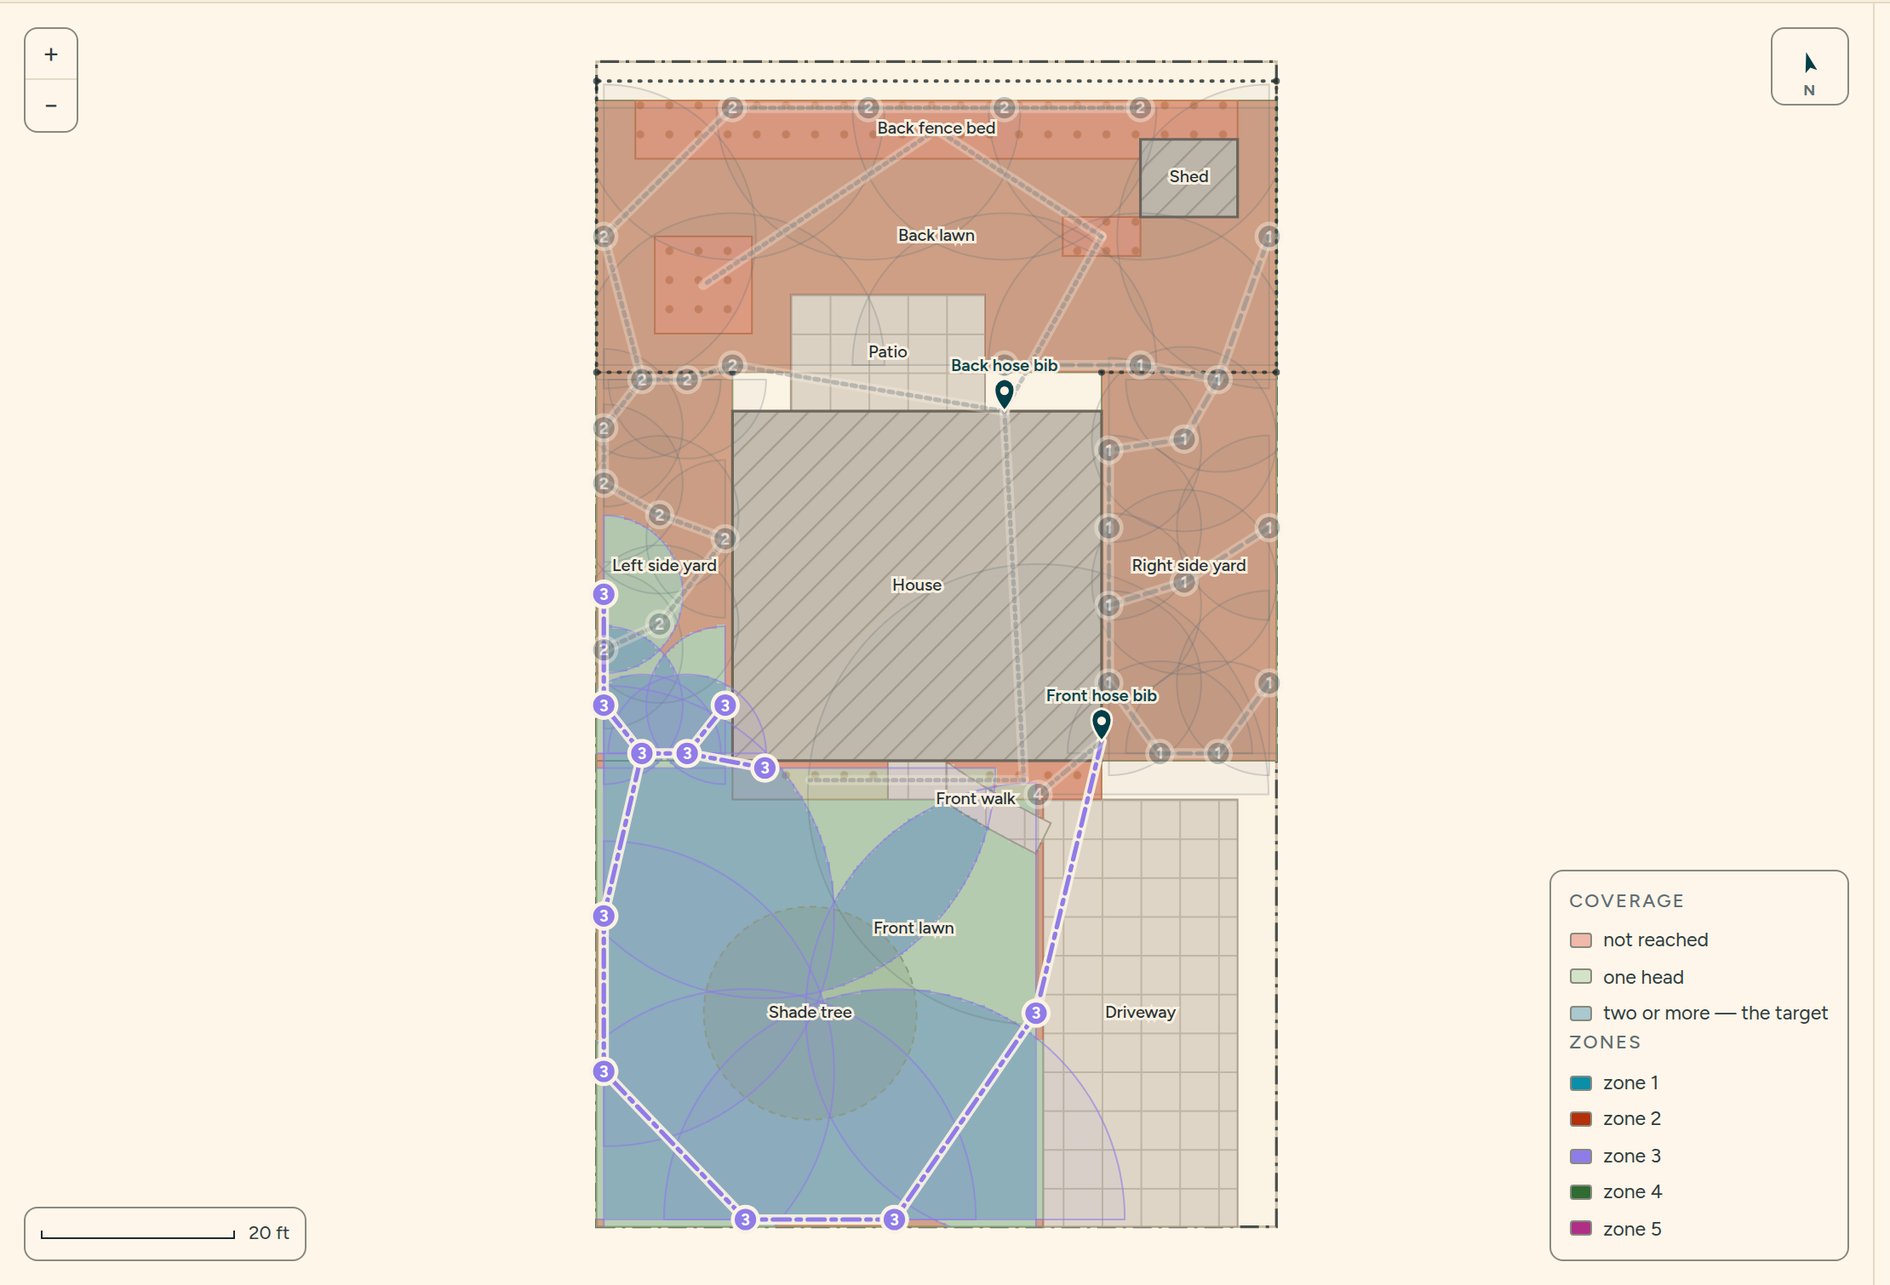
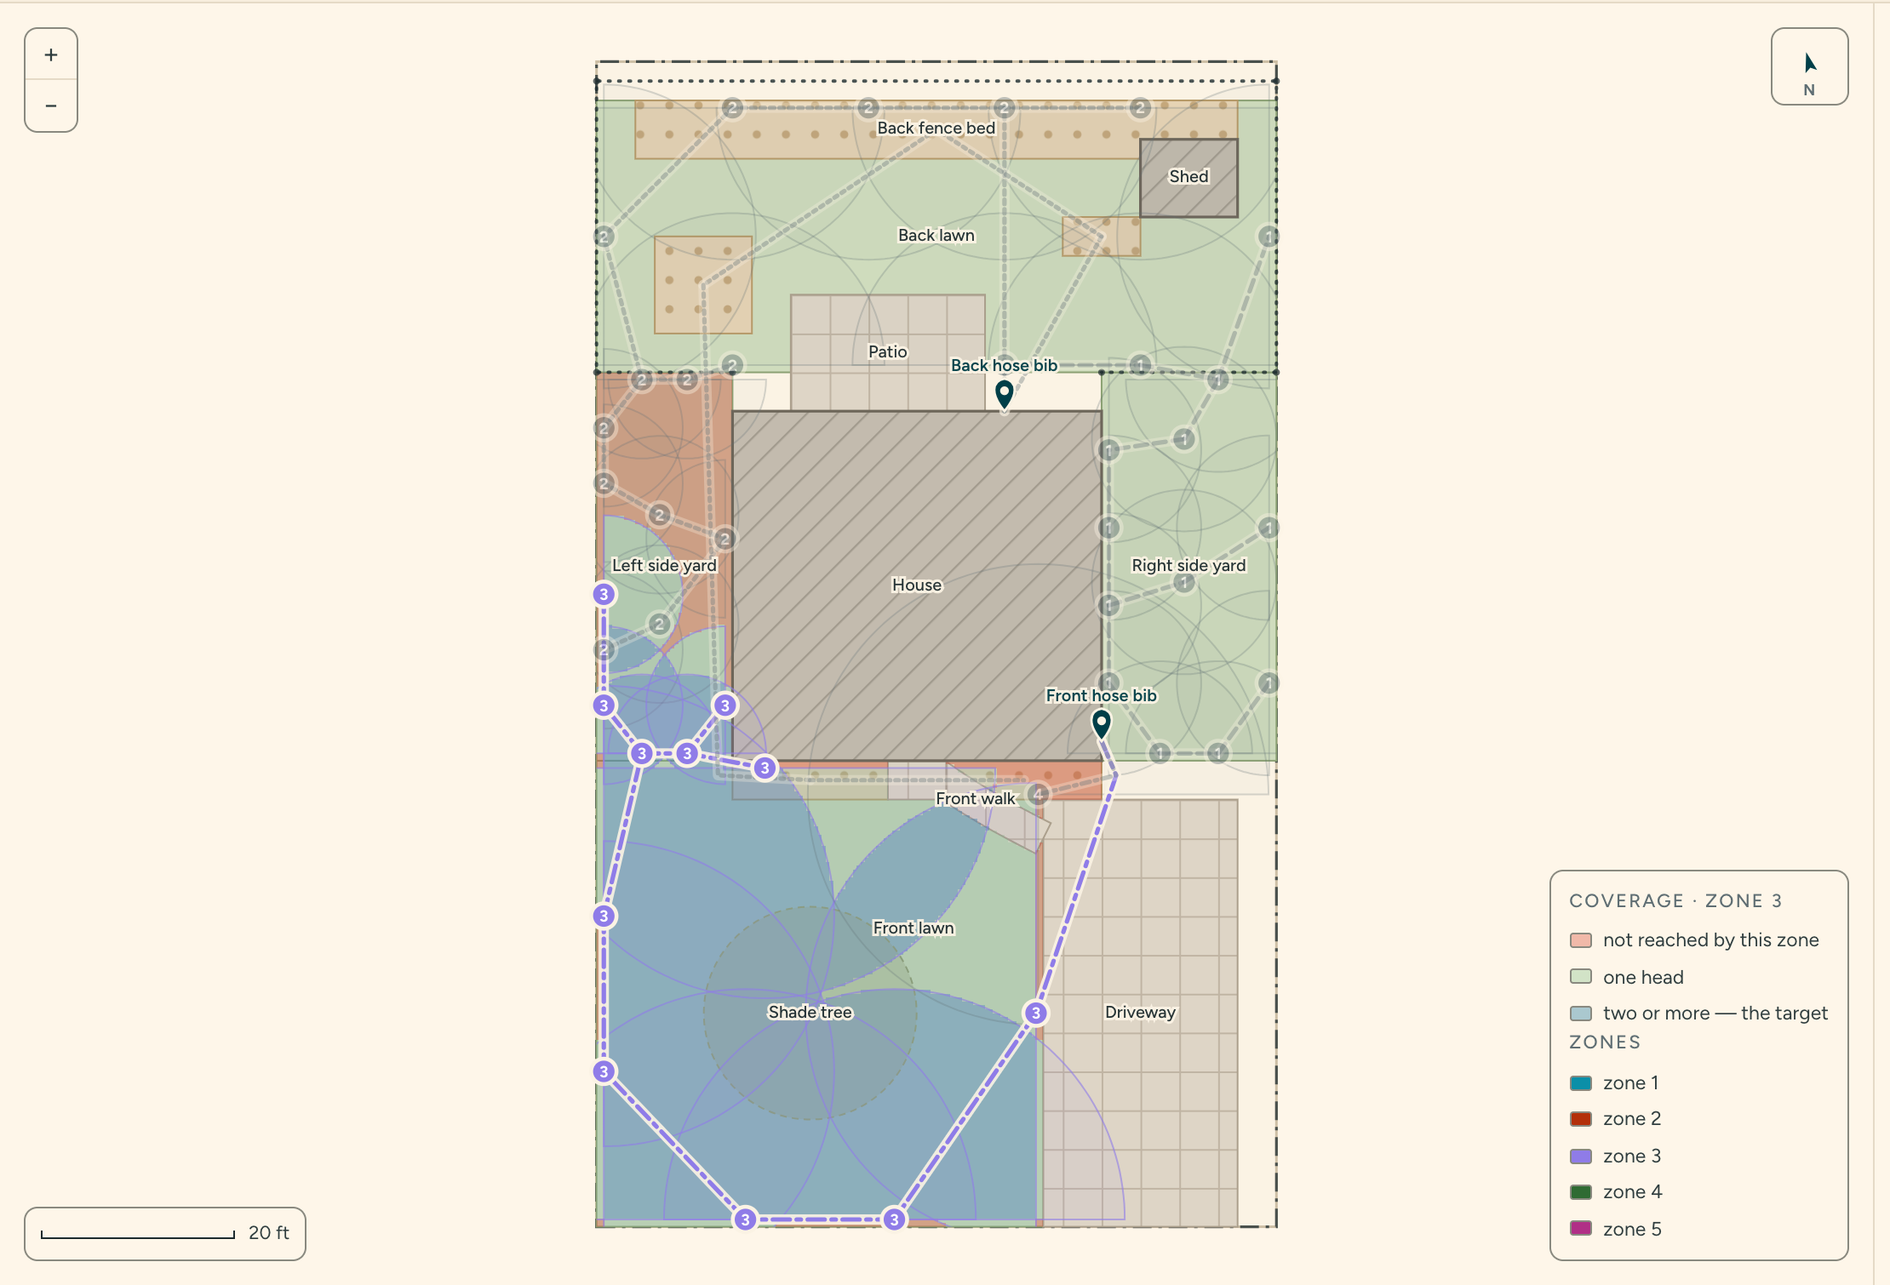
Trenches: route around buildings instead of only penalising them
Two things were wrong. segmentCrossesPoly counted a touch as a crossing,
and both sample bibs sit on the house wall, so every run out of a bib
carried the x8 penalty and the tree learned nothing from it — four of
the five "crossings" on the sample yard were this. It now means "enters
the interior": proper edge crossings, otherwise three interior sample
points with the boundary read as outside.

The one real crossing (a drip run straight through the house to the
front beds) is now routed. TrenchRouter builds a visibility graph over
every building's offset corners (offsetCorners in geometry.js, 1.5 ft
margin, reflex-safe), computes corner-to-corner visibility once, and
answers each query with Dijkstra. trenchTree weights every edge by its
routed cost and returns polylines with the turns in; autoLayout writes
them straight into pipes[].pts — the renderer, the sheet's pipe totals
and the reachability test already took polylines. Paving stays a x1.8
price rather than a wall; a boxed-in pair falls back to a straight run
at x8, drawn honestly.

Sample yard: 0 runs under a building (was 1 real + 4 false), 610 ft of
trench (was 586). Six new tests, README / page / HANDOFF updated, and
the figures and OG card regenerated.

Claude-Session: https://claude.ai/code/session_01MkXNGgWg6Zpzr4CqgBHzzu

diff --git a/src/autolayout.js b/src/autolayout.js
@@ -19,7 +19,7 @@
 
 import {
   dist, clamp, deg, rad, pointInPoly, polyArea, centroid, bounds,
-  distToBoundary, nearestOnSegment, segmentCrossesPoly, aimVec,
+  distToBoundary, nearestOnSegment, segmentCrossesPoly, offsetCorners, aimVec,
 } from './geometry.js';
 import { HEAD_TYPES, headGpm, dripGpm, dripTubingFt, effectiveRadius } from './hydraulics.js';
 import { isIrrigable, isObstacle, newId, peekId } from './site.js';
@@ -235,47 +235,130 @@ export function packZones(chain, gpmOf, budget, maxPerZone = MAX_HEADS_PER_ZONE)
 
 /* --- 7. Trenching ------------------------------------------------------- */
 
+/** How much longer a run is allowed to look when it crosses paving. A walk can
+ *  be sleeved or bored under; a driveway is a real job. It is a price, not a
+ *  wall — the router still crosses paving when going round would be absurd. */
+export const PAVING_FACTOR = 1.8;
+/** How far a routed trench turns clear of a building's corner, in feet. */
+export const CORNER_MARGIN = 1.5;
+
+/** Routes a trench between two points without going under a building.
+ *
+ * The straight line is used whenever it stays out of every structure. When it
+ * would go through one, the run is bent around it: the corners of every
+ * building, pushed out by a small margin, form a visibility graph, and the
+ * shortest path through it is the route. That is the standard answer to
+ * shortest-path-around-obstacles and at the size of a yard it is instant.
+ * Paving is not an obstacle here, only a price — see PAVING_FACTOR.
+ *
+ * Built once per trenching pass so the corner-to-corner visibility is
+ * computed once and shared by every query. */
+export class TrenchRouter {
+  constructor(structures = [], paving = [], margin = CORNER_MARGIN) {
+    this.structures = structures;
+    this.paving = paving;
+    // Corner nodes: every building's offset corners, dropping any that land
+    // inside another building (two touching structures) since a trench cannot
+    // turn there.
+    this.corners = [];
+    for (const st of structures) {
+      for (const c of offsetCorners(st.pts, margin)) {
+        if (structures.some((o) => pointInPoly(c, o.pts))) continue;
+        this.corners.push(c);
+      }
+    }
+    const n = this.corners.length;
+    this.cc = new Float64Array(n * n).fill(Infinity);
+    for (let i = 0; i < n; i++) {
+      for (let j = i + 1; j < n; j++) {
+        const w = this.leg(this.corners[i], this.corners[j]);
+        this.cc[i * n + j] = w; this.cc[j * n + i] = w;
+      }
+    }
+  }
+
+  blocked(a, b) { return this.structures.some((st) => segmentCrossesPoly(a, b, st.pts)); }
+
+  /** Cost of one straight leg, or Infinity if it goes under a building. */
+  leg(a, b) {
+    if (this.blocked(a, b)) return Infinity;
+    const L = dist(a, b);
+    return this.paving.some((pv) => segmentCrossesPoly(a, b, pv.pts)) ? L * PAVING_FACTOR : L;
+  }
+
+  /** @returns {{pts: Array<{x:number,y:number}>, cost: number, routed: boolean}} */
+  route(a, b) {
+    const direct = this.leg(a, b);
+    if (direct < Infinity) return { pts: [a, b], cost: direct, routed: false };
+    const n = this.corners.length;
+    if (!n) return { pts: [a, b], cost: dist(a, b) * 8, routed: false };
+    // Dijkstra over a, the corners, and b. Nodes 0..n-1 are corners, n is a,
+    // n+1 is b. Small enough that a plain array scan beats a heap.
+    const N = n + 2, A = n, B = n + 1;
+    const cost = new Float64Array(N).fill(Infinity);
+    const prev = new Int32Array(N).fill(-1);
+    const done = new Uint8Array(N);
+    const fromA = this.corners.map((c) => this.leg(a, c));
+    const toB = this.corners.map((c) => this.leg(c, b));
+    cost[A] = 0;
+    for (;;) {
+      let u = -1;
+      for (let i = 0; i < N; i++) if (!done[i] && cost[i] < Infinity && (u < 0 || cost[i] < cost[u])) u = i;
+      if (u < 0 || u === B) break;
+      done[u] = 1;
+      const relax = (v, w) => { if (w < Infinity && cost[u] + w < cost[v]) { cost[v] = cost[u] + w; prev[v] = u; } };
+      if (u === A) { for (let j = 0; j < n; j++) relax(j, fromA[j]); }
+      else { for (let j = 0; j < n; j++) relax(j, this.cc[u * n + j]); relax(B, toB[u]); }
+    }
+    if (cost[B] === Infinity) {
+      // Boxed in — a source inside a courtyard, say. Draw it straight and
+      // price it as the tunnelling job it would be, so the tree avoids it if
+      // it possibly can.
+      return { pts: [a, b], cost: dist(a, b) * 8, routed: false };
+    }
+    const pts = [b];
+    for (let v = prev[B]; v !== A && v >= 0; v = prev[v]) pts.unshift(this.corners[v]);
+    pts.unshift(a);
+    return { pts, cost: cost[B], routed: true };
+  }
+}
+
 /** Prim's minimum spanning tree from the source out to every head in the zone.
  *
- * The edge weight is length times a penalty for what the trench would have to
- * cross, so the tree routes around the house rather than proposing that you
- * tunnel under a foundation. It is a preference, not a guarantee: on a plan
- * where the only path is through, the penalty is paid and the run is drawn
- * honestly rather than hidden. */
-export function trenchTree(source, heads, { structures = [], paving = [] } = {}) {
+ * Every edge is a routed trench, so its weight is the length you would
+ * actually dig — round the house, priced up across paving — and the tree
+ * chooses its topology on that basis. The result is a list of polylines, each
+ * from a node in the tree to a new node, with the corner turns included. */
+export function trenchTree(source, heads, { structures = [], paving = [], router } = {}) {
   const nodes = [{ x: source.x, y: source.y, sourceId: source.id }, ...heads];
-  const weight = (a, b) => {
-    let w = dist(a, b);
-    if (structures.some((s) => segmentCrossesPoly(a, b, s.pts))) w *= 8;
-    else if (paving.some((s) => segmentCrossesPoly(a, b, s.pts))) w *= 1.8;
-    return w;
-  };
+  const R = router ?? new TrenchRouter(structures, paving);
   // Textbook Prim: every node outside the tree remembers its cheapest link
   // into it, and each newly added node offers itself to the rest once. That is
-  // O(n²) weight evaluations in total, rather than re-scoring every
+  // O(n²) route evaluations in total, rather than re-scoring every
   // tree × outside pair on every step.
   const n = nodes.length;
   const inTree = new Uint8Array(n);
   const key = new Float64Array(n).fill(Infinity);
   const parent = new Int32Array(n).fill(-1);
+  const via = new Array(n).fill(null);
   const edges = [];
   let cur = 0;
   inTree[0] = 1;
   for (let added = 1; added < n; added++) {
     for (let j = 1; j < n; j++) {
       if (inTree[j]) continue;
-      const w = weight(nodes[cur], nodes[j]);
-      if (w < key[j]) { key[j] = w; parent[j] = cur; }
+      const r = R.route(nodes[cur], nodes[j]);
+      if (r.cost < key[j]) { key[j] = r.cost; parent[j] = cur; via[j] = r.pts; }
     }
     let best = -1;
     for (let j = 1; j < n; j++) if (!inTree[j] && (best < 0 || key[j] < key[best])) best = j;
     if (best < 0) break;
     inTree[best] = 1;
-    edges.push([parent[best], best]);
+    edges.push([parent[best], best, via[best]]);
     cur = best;
   }
   const ref = (n) => (n.sourceId ? { x: n.x, y: n.y, sourceId: n.sourceId } : { x: n.x, y: n.y, headId: n.id });
-  return edges.map(([i, j]) => [ref(nodes[i]), ref(nodes[j])]);
+  return edges.map(([i, j, pts]) => [ref(nodes[i]), ...pts.slice(1, -1).map((p) => ({ x: p.x, y: p.y })), ref(nodes[j])]);
 }
 
 /* --- The whole thing ---------------------------------------------------- */
@@ -359,11 +442,12 @@ export function autoLayout(state, opts = {}) {
   const pipes = [];
   const byZone = new Map();
   for (const h of heads) { if (!byZone.has(h.zone)) byZone.set(h.zone, []); byZone.get(h.zone).push(h); }
+  const router = new TrenchRouter(structures, paving);
   for (const [zone, group] of byZone) {
     const c = centroid(group);
     const src = state.sources.reduce((best, s) => (dist(s, c) < dist(best, c) ? s : best), state.sources[0]);
-    for (const [a, b] of trenchTree(src, group, { structures, paving })) {
-      pipes.push({ id: newId(), zone, pts: [a, b] });
+    for (const pts of trenchTree(src, group, { router })) {
+      pipes.push({ id: newId(), zone, pts });
     }
   }
   // Drip zones get the same treatment: one tree per zone reaching each bed's
@@ -378,8 +462,9 @@ export function autoLayout(state, opts = {}) {
   for (const [zone, group] of dripByZone) {
     const c = centroid(group);
     const src = state.sources.reduce((best, s) => (dist(s, c) < dist(best, c) ? s : best), state.sources[0]);
-    for (const [a, b] of trenchTree(src, group, { structures, paving })) {
-      pipes.push({ id: newId(), zone, pts: [{ x: a.x, y: a.y, sourceId: a.sourceId }, { x: b.x, y: b.y }], drip: true });
+    for (const pts of trenchTree(src, group, { router })) {
+      const last = pts.length - 1;
+      pipes.push({ id: newId(), zone, pts: pts.map((p, i) => (i === last ? { x: p.x, y: p.y } : p)), drip: true });
     }
   }
 

diff --git a/src/geometry.js b/src/geometry.js
@@ -78,14 +78,57 @@ export function segmentsIntersect(a, b, c, d) {
   return o1 !== o2 && o3 !== o4;
 }
 
-/** Does the segment a→b cut through this polygon? Used to make pipe runs
- *  prefer going around the house rather than under it. */
+/** Does the segment a→b cut through this polygon? Used to keep pipe runs out
+ *  from under the house.
+ *
+ * "Through" means the run enters the interior. Touching does not count: a
+ * hose bib sits on the wall of the house, and a trench that starts there and
+ * heads away, or runs along the foundation, is not a trench under the
+ * foundation. So an edge crossing counts only when it is proper (both
+ * segments straddle each other strictly), and otherwise a few interior
+ * sample points decide, with points on the boundary itself read as outside. */
 export function segmentCrossesPoly(a, b, poly) {
   for (let i = 0; i < poly.length; i++) {
-    if (segmentsIntersect(a, b, poly[i], poly[(i + 1) % poly.length])) return true;
+    if (segmentsCrossProperly(a, b, poly[i], poly[(i + 1) % poly.length])) return true;
   }
-  return pointInPoly({ x: (a.x + b.x) / 2, y: (a.y + b.y) / 2 }, poly);
+  for (const t of [0.25, 0.5, 0.75]) {
+    const p = { x: a.x + (b.x - a.x) * t, y: a.y + (b.y - a.y) * t };
+    if (pointInPoly(p, poly) && distToBoundary(p, poly) > 1e-6) return true;
+  }
+  return false;
 }
+
+/** Strict version of segmentsIntersect: an endpoint lying on the other segment
+ *  is not a crossing. */
+export function segmentsCrossProperly(a, b, c, d) {
+  const o = (p, q, r) => Math.sign((q.x - p.x) * (r.y - p.y) - (q.y - p.y) * (r.x - p.x));
+  const o1 = o(a, b, c), o2 = o(a, b, d), o3 = o(c, d, a), o4 = o(c, d, b);
+  return o1 * o2 < 0 && o3 * o4 < 0;
+}
+
+/** The polygon's corners pushed outward by `margin`, so a route can turn just
+ *  clear of a building rather than scraping its wall. Works for reflex corners
+ *  too: the bisector is checked against the polygon and flipped if it points
+ *  in. */
+export function offsetCorners(poly, margin = 1.5) {
+  const out = [];
+  const n = poly.length;
+  for (let i = 0; i < n; i++) {
+    const v = poly[i], p = poly[(i - 1 + n) % n], q = poly[(i + 1) % n];
+    const u = unit({ x: p.x - v.x, y: p.y - v.y }), w = unit({ x: q.x - v.x, y: q.y - v.y });
+    let bis = { x: u.x + w.x, y: u.y + w.y };
+    if (Math.hypot(bis.x, bis.y) < 1e-9) bis = { x: -u.y, y: u.x }; // straight-through vertex
+    bis = unit(bis);
+    const half = Math.acos(clamp(u.x * w.x + u.y * w.y, -1, 1)) / 2;
+    const push = margin / Math.max(0.35, Math.sin(half));
+    let c = { x: v.x + bis.x * push, y: v.y + bis.y * push };
+    if (pointInPoly(c, poly)) c = { x: v.x - bis.x * push, y: v.y - bis.y * push };
+    out.push(c);
+  }
+  return out;
+}
+
+const unit = (v) => { const L = Math.hypot(v.x, v.y) || 1; return { x: v.x / L, y: v.y / L }; };
 
 /* --- Sprinkler arcs ---------------------------------------------------- */
 /* `aim` is degrees clockwise from "away from the street" (+y), which is how a

diff --git a/index.html b/index.html
@@ -190,10 +190,11 @@
               <h3>5 · Trench as a spanning tree</h3>
               <p>
                 Each zone gets a minimum spanning tree from its nearest source
-                out to every head, with edge weights multiplied where the run
-                would cross a building or paving. It is a preference, not a
-                guarantee: where the only path is through, the penalty is paid
-                and the run is drawn honestly rather than hidden.
+                out to every head, and every edge of it is a routed run:
+                straight where the line stays clear of every building, and
+                otherwise bent around the corners by the shortest path, so the
+                trench on the plan is a trench you can dig. Paving is a price
+                rather than a wall — a walk can be sleeved.
               </p>
             </div>
             <div class="bench-item">

diff --git a/HANDOFF.md b/HANDOFF.md
@@ -10,7 +10,7 @@
 | **Landed** | [PR #6](https://github.com/uxpreview/verbose-octo-journey/pull/6) — **merged** |
 | **Deploys from** | `main` → `irrigation-planner-theta.vercel.app` |
 | **Intended host** | `irrigation.ryankm.com` — **assumed, not confirmed** (see §7.1) |
-| **Tests** | `npm test` — 36 passing on `feat/solver-perf` (34 on `main`) |
+| **Tests** | `npm test` — 40 passing on `feat/trench-routing` (34 on `main`) |
 | **Handoff written** | 2026-08-18 |
 
 ---
@@ -136,8 +136,9 @@ that makes it a lab rather than a drawing program.
 4. **Pack zones under the flow budget** (`chainByProximity`, `packZones`) — heads
    walked in a nearest-neighbour chain from the source, packed greedily at 85 %
    of measured flow, so a zone is a contiguous *place* in the yard.
-5. **Trench as a spanning tree** (`trenchTree`) — Prim's MST per zone, edge
-   weights multiplied where a run would cross a building (×8) or paving (×1.8).
+5. **Trench as a spanning tree** (`TrenchRouter`, `trenchTree`) — Prim's MST per
+   zone over *routed* edges: straight when clear of every building, else the
+   shortest path round the offset corners; paving priced ×1.8, never a wall.
 
 Beds run on drip rather than throw, with flow from bed area.
 
@@ -275,15 +276,26 @@ with first-fit-decreasing / capacitated clustering. Watch the existing tests —
 they assert no zone exceeds budget, so a merge must respect both the flow and
 head caps.
 
-**6. Trenches penalise crossing buildings but do not route around them.**
-`trenchTree` multiplies the edge weight for a run that crosses a structure, so
-the tree *prefers* a different topology — but the chosen edge is still drawn as
-a straight line, which can still pass through the house when no better topology
-exists. The drawn run is therefore not always diggable.
+**6. ~~Trenches penalise crossing buildings but do not route around them.~~
+Done** (`feat/trench-routing`, stacked on `feat/solver-perf`). Two things:
 
-*Fix:* insert waypoints — a visibility graph over obstacle corners, or a simple
-"route around the bounding box" pass on any edge flagged as crossing. This is
-the single change that would most improve the printed dig plan's credibility.
+- `segmentCrossesPoly` counted a *touch* as a crossing. Both sample bibs sit
+  on the house wall, so every run out of a bib carried the ×8 penalty and the
+  tree learned nothing from it (4 of the 5 "crossings" on the sample yard were
+  this). It now means "enters the interior": proper edge crossings, else three
+  interior sample points, boundary read as outside.
+- `TrenchRouter` (`src/autolayout.js`): a visibility graph over every
+  building's offset corners (`offsetCorners` in `geometry.js`, margin 1.5 ft,
+  reflex-safe), Dijkstra per query, corner-to-corner visibility computed once.
+  `trenchTree` weights each edge by its routed cost and returns polylines with
+  the turns in; `autoLayout` writes them straight into `pipes[].pts` — the
+  renderer, the sheet's pipe totals and the reachability test already took
+  polylines. Paving stays a ×1.8 price, not a wall. Boxed-in pairs fall back
+  to a straight run at ×8, drawn honestly.
+
+Sample yard: 0 runs under a building (was 1 real + 4 false), 610 ft of trench
+(was 586). Six new tests, including "no auto-laid trench goes under a
+building" on the sample plan.
 
 **7. Traced images are stored at full resolution.** `openImage` in
 `src/main.js` does `readAsDataURL` and stores the result in state, which is then

diff --git a/README.md b/README.md
@@ -68,11 +68,14 @@ The interesting part is not the drawing program, it is that the plan is
    chain from the water source and packed greedily at 85 % of measured flow, so
    a zone is a contiguous *place* in the yard rather than a scattering, and no
    valve is sized at 100 % of a bucket test. (`chainByProximity`, `packZones`)
-5. **Trench as a spanning tree.** Prim's MST per zone from its nearest source,
-   with edge weights multiplied where the run would cross a building (×8) or
-   paving (×1.8), so it routes around the house. A preference, not a guarantee:
-   where the only path is through, the penalty is paid and the run is drawn
-   honestly rather than hidden. (`trenchTree`)
+5. **Trench as a spanning tree, routed around the buildings.** Prim's MST per
+   zone from its nearest source, where every edge is a *routed* run: straight
+   when the line stays clear of every structure, otherwise the shortest path
+   through a visibility graph over the buildings' offset corners, so the drawn
+   trench really does go round the house. Paving is a price rather than a wall
+   (×1.8) — a walk can be sleeved. Only if a point is boxed in on every side is
+   a straight run drawn and priced as the tunnelling job it would be.
+   (`TrenchRouter`, `trenchTree`)
 
 Beds are handled separately, as drip rather than throw: flow from bed area at
 0.6 GPH emitters on a 12 in grid, and a bed on a drip zone counts as covered
